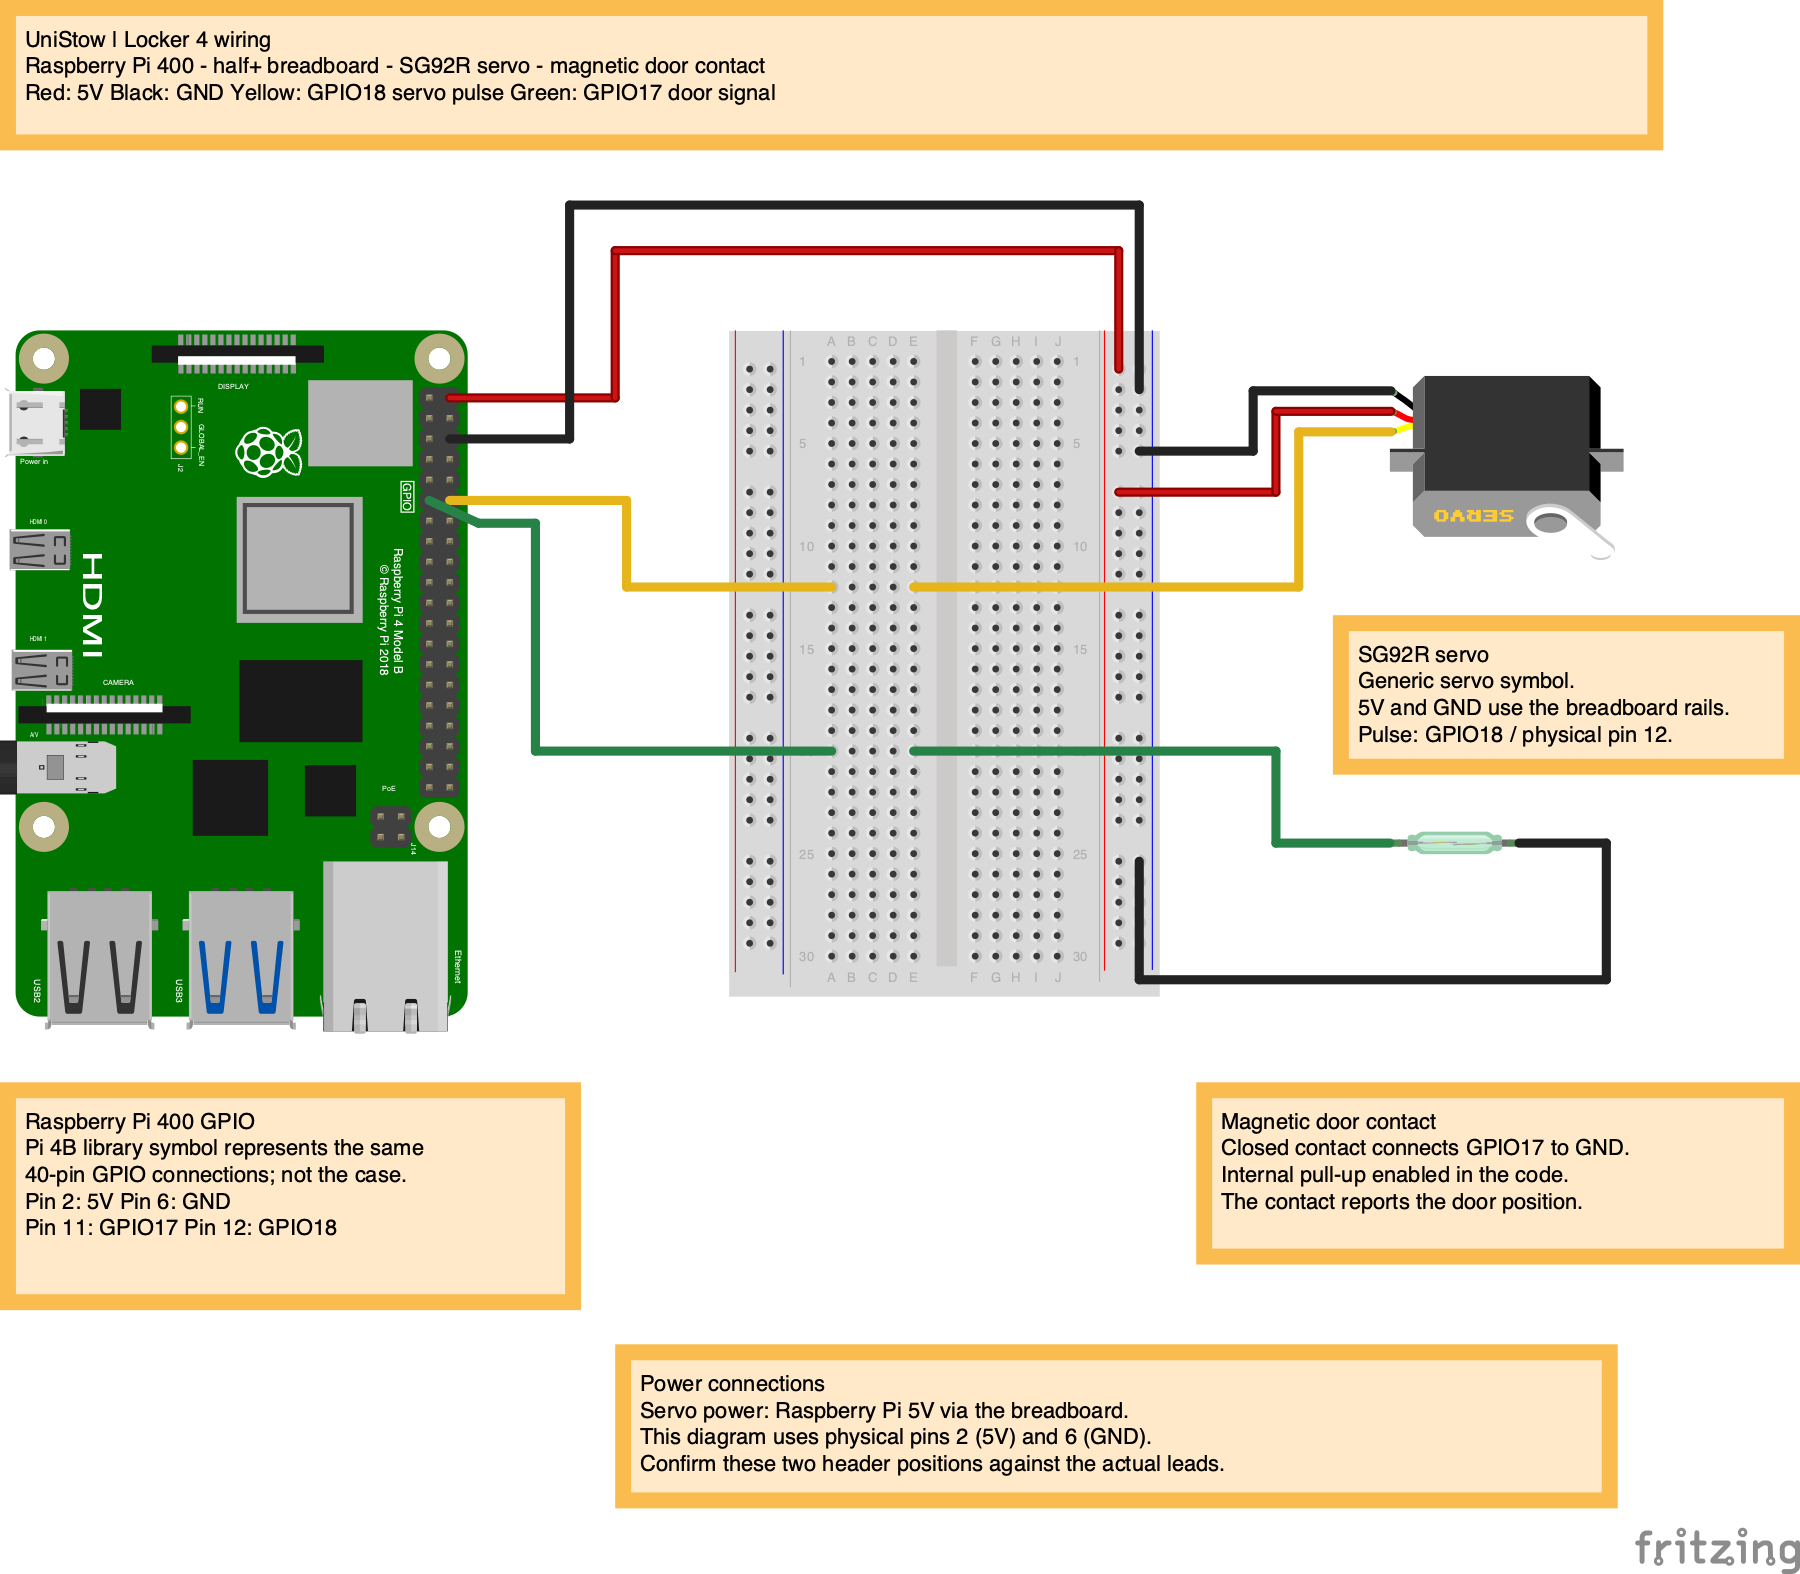
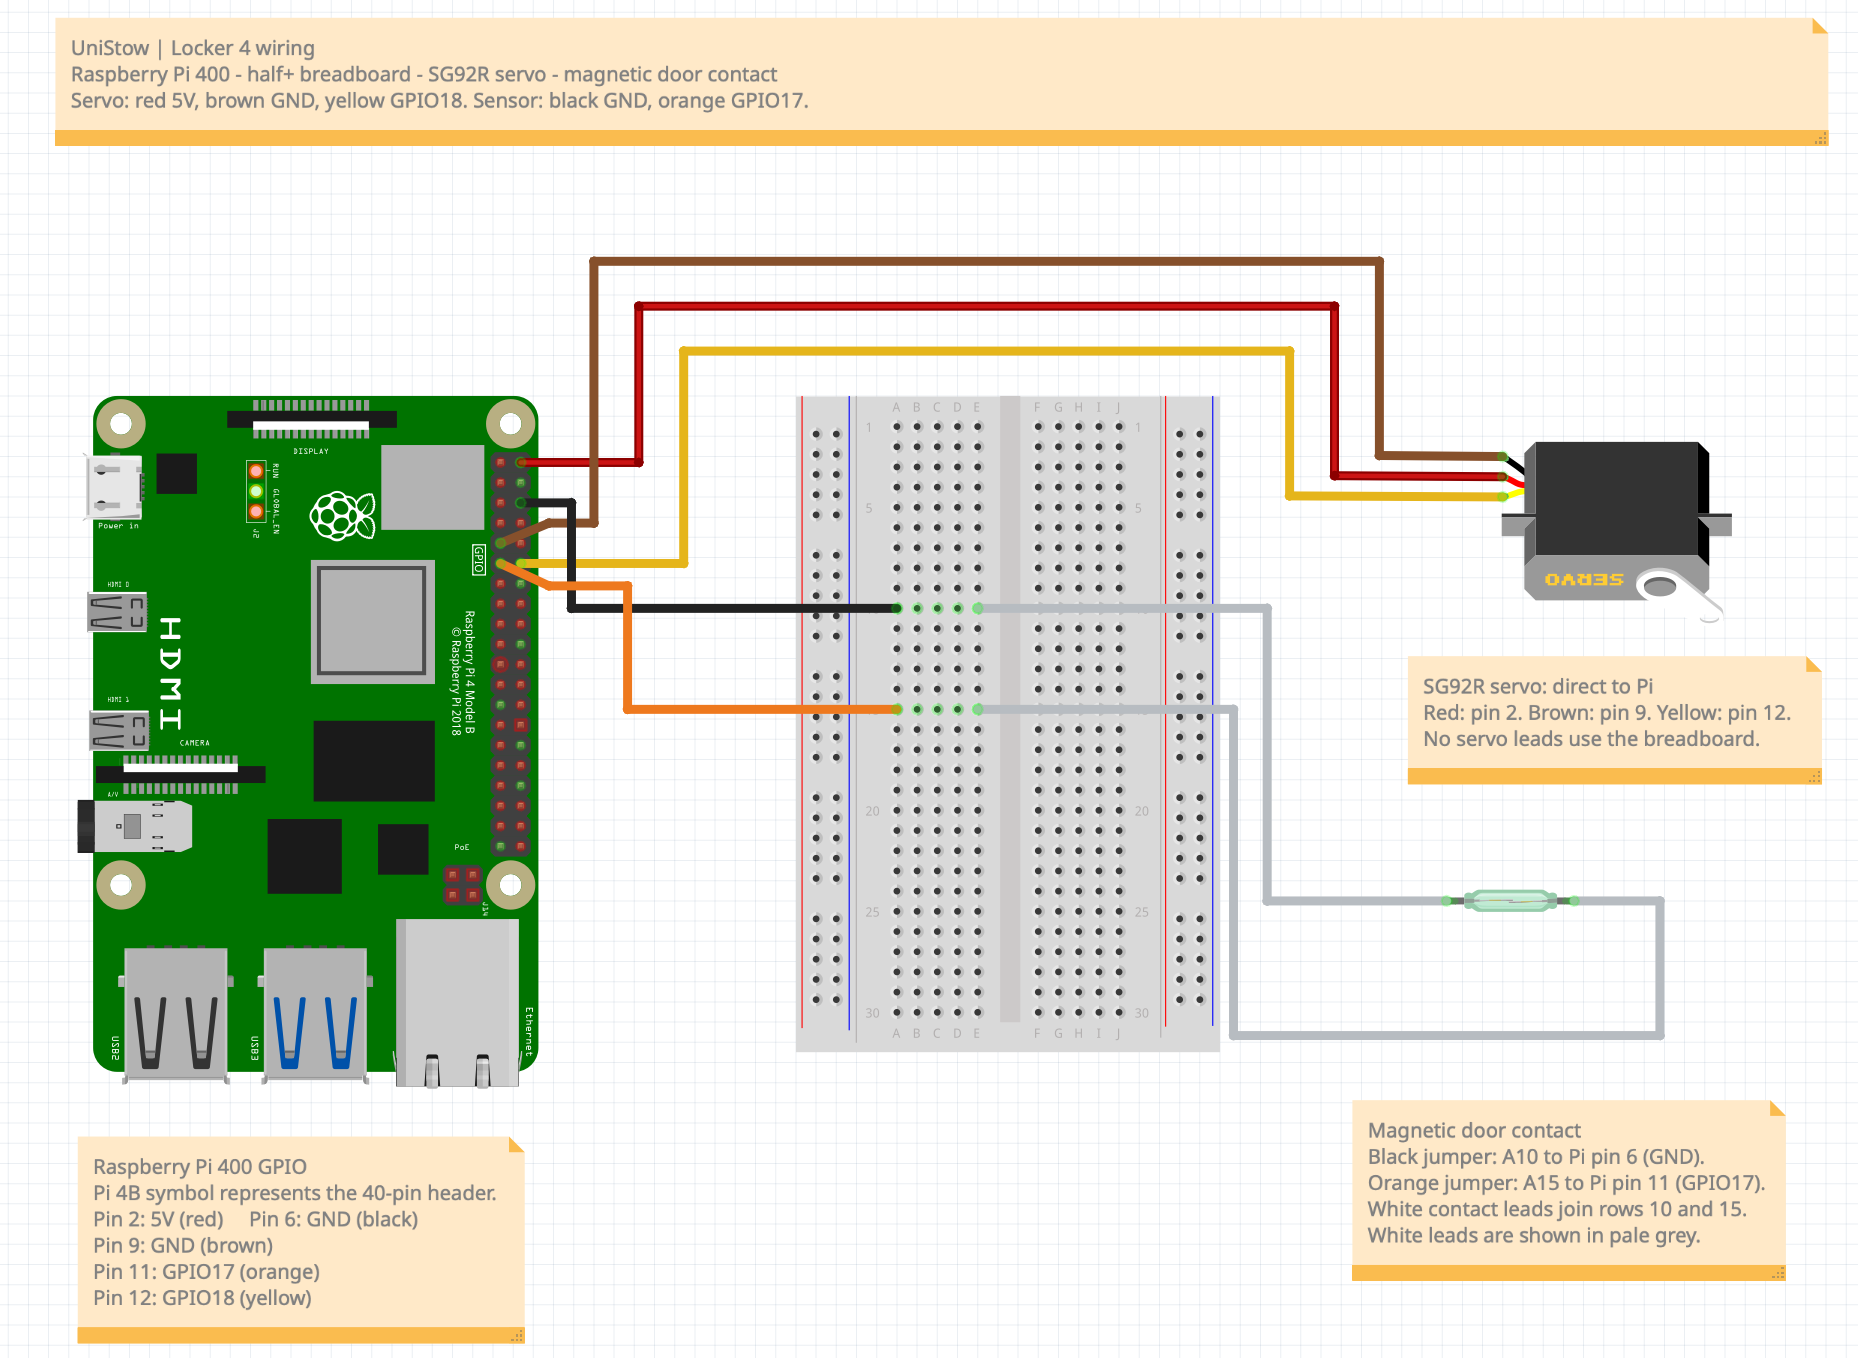
Correct wiring diagram and add prototype photos

diff --git a/hardware/README.md b/hardware/README.md
@@ -12,18 +12,39 @@ door contact. The PNG export is shown below.
 
 ![Locker 4 breadboard wiring](../docs/images/hardware/unistow-wiring.png)
 
-| Connection    | Raspberry Pi header                | Breadboard connection                           | Wire colour |
-|---------------|------------------------------------|-------------------------------------------------|-------------|
-| Servo supply  | 5V, physical pin 2 in the diagram  | Positive rail to servo VCC                      | Red         |
-| Common ground | GND, physical pin 6 in the diagram | Negative rail to servo GND and door contact     | Black       |
-| Servo pulse   | GPIO18, physical pin 12            | Row 12, A to E, then servo signal               | Yellow      |
-| Door contact  | GPIO17, physical pin 11            | Row 20, A to E, then contact; other lead to GND | Green       |
+| Connection          | Raspberry Pi header     | Route                                  | Wire colour |
+|---------------------|-------------------------|----------------------------------------|-------------|
+| Servo supply        | 5V, physical pin 2      | Directly to servo VCC                  | Red         |
+| Door contact ground | GND, physical pin 6     | A10, joined to one white contact lead  | Black       |
+| Servo ground        | GND, physical pin 9     | Directly to servo GND                  | Brown       |
+| Door contact input  | GPIO17, physical pin 11 | A15, joined to the other white lead    | Orange      |
+| Servo pulse         | GPIO18, physical pin 12 | Directly to servo signal               | Yellow      |
 
-The author confirmed that the servo is powered from the Raspberry Pi 5V
-supply through the breadboard. The drawing uses physical pins 2 and 6 for
-power and ground; check these two positions against the actual leads before
-using the diagram as an exact wiring record. Breadboard rows and wire
-colours are diagram conventions, rather than a record of the physical layout.
+On 27 November 2026, the author supplied the photographs below and confirmed
+all five physical header positions in the table. The servo connects directly
+to the Pi; only the magnetic door contact uses the breadboard. The breadboard
+power rails are unused. This corrects the earlier drawing, which routed the
+servo through the rails and used different sensor rows and colours.
+
+The two white contact leads join the black and orange jumpers on rows 10 and
+15 respectively. The diagram places these white leads at E10 and E15 to show
+the same-row connections clearly; their precise hole letters were not recorded.
+White leads are drawn in pale grey for visibility. The generic servo symbol
+has a black ground lead, while the physical servo ground lead is brown.
+
+Physical header positions differ from GPIO numbers. The Pi 400's header
+orientation also differs from the Pi 4B symbol: use the **PIN1** marking on the
+actual Pi 400 and the [official Raspberry Pi GPIO reference](https://www.raspberrypi.com/documentation/computers/raspberry-pi.html)
+when identifying contacts.
+
+![Pi 400 header with red, black, brown, orange and yellow jumper wires, photographed on 27 November 2026](../docs/images/hardware/unistow-pi-header-2026-11-27.jpeg)
+
+![Magnetic contact joined to black and orange jumpers at breadboard A10 and A15, with the servo leads connected separately](../docs/images/hardware/unistow-contact-breadboard-2026-11-27.jpeg)
+
+These original photographs record the physical connections. The
+[rental #59 walkthrough](../docs/usability-testing.md#27-november-2026--locker-4-rental-walkthrough-59)
+records the operating sequence and the author's confirmation that the door
+opened and the latch held it closed afterwards.
 
 The Pi 4B library symbol represents the Pi 400's 40-pin GPIO connections;
 it does not represent the Pi 400 case. The servo and reed switch are generic

diff --git a/docs/implementation-plan.md b/docs/implementation-plan.md
@@ -15,9 +15,12 @@ Use this checklist alongside the original brief before submitting to Moodle.
   covers EC2 code, TLS, AWS network rules and EBS, plus Pi service status, file
   permissions, storage, configuration, established broker TCP connection and
   fresh device API heartbeats and MQTT telemetry from the running Pi.
-- [ ] Check the existing [Fritzing sketch](../hardware/unistow-wiring.fzz) and
+- [x] Check the existing [Fritzing sketch](../hardware/unistow-wiring.fzz) and
   [wiring guide](../hardware/README.md#wiring-diagram) against the physical leads,
-  including the Pi 5V and ground connections.
+  including the Pi 5V and ground connections. The author supplied photographs
+  and confirmed pins 2, 6, 9, 11 and 12 on 27 November. The corrected drawing
+  shows the servo connected directly to the Pi and the contact joined through
+  breadboard rows 10 and 15; the guide identifies the generic symbol details.
 - [ ] Record the screencast with an empty locker: explain the code and architecture,
   then sign in, reserve, pay in Stripe test mode, open, collect and close. Show
   the secured MQTT exchange, sensor reading, resulting PostgreSQL rental state
